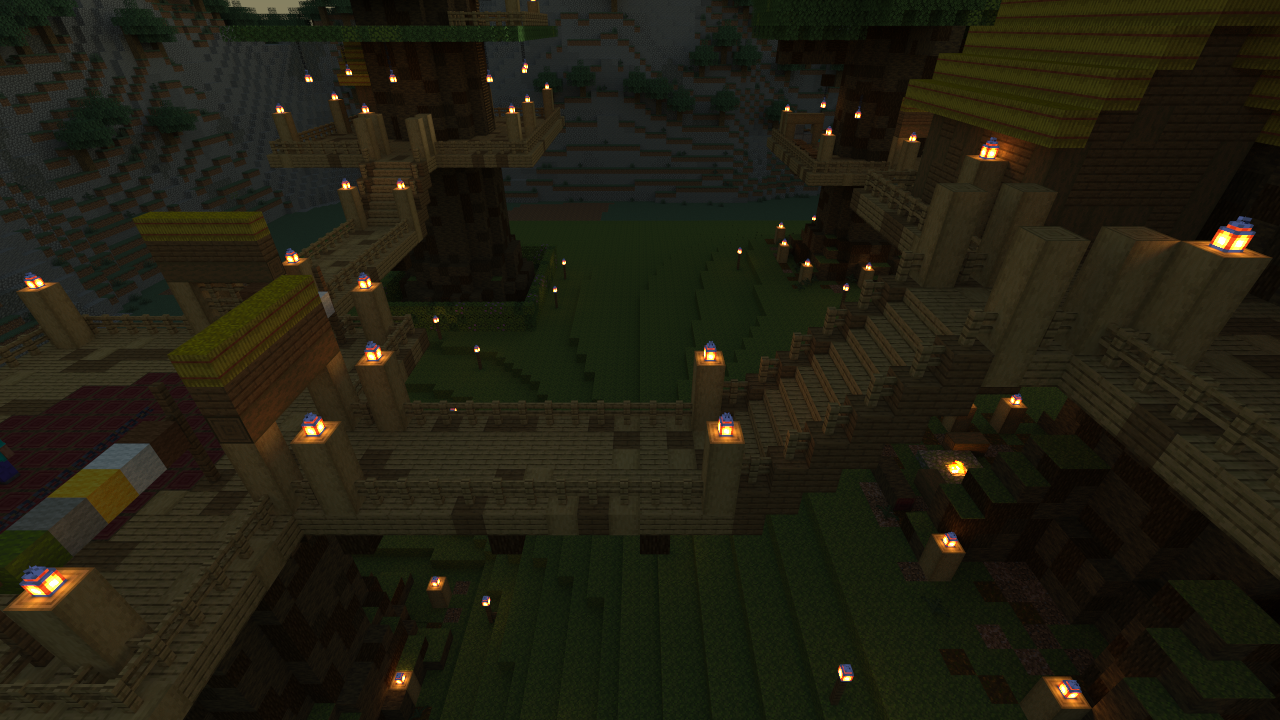
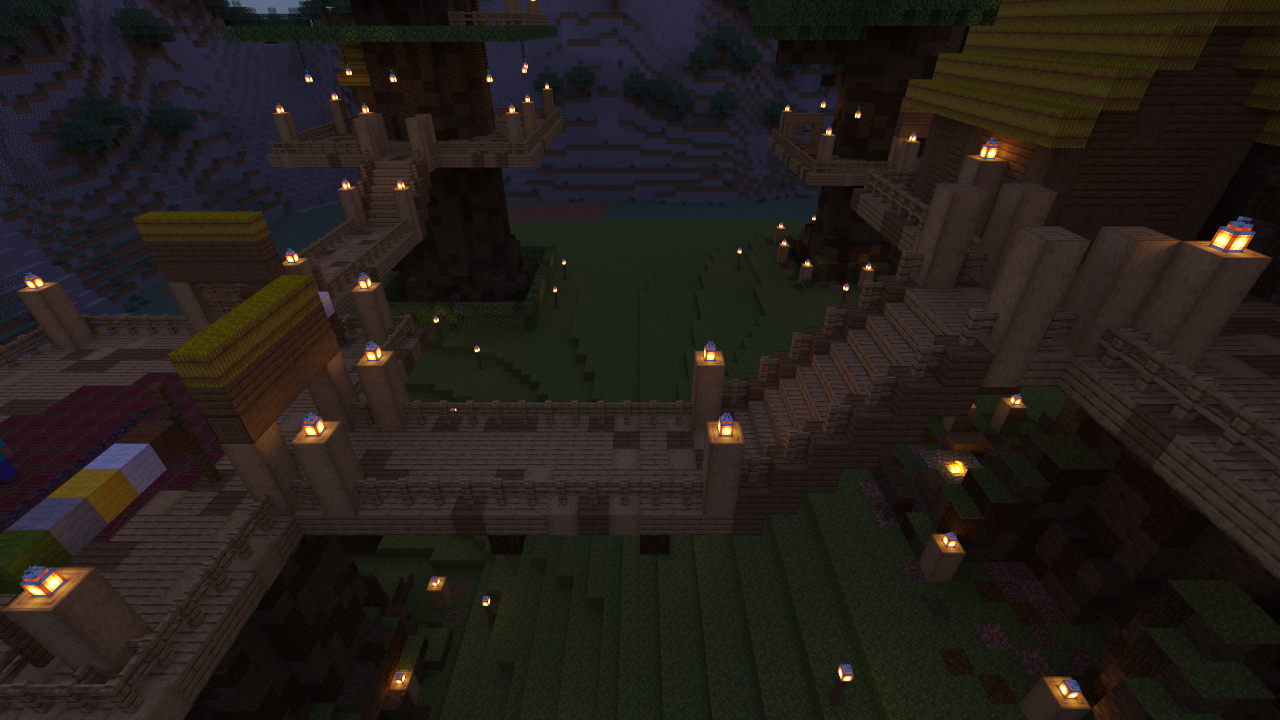
docs(renders): the four HQ Treehouse Camp frames under the game's sky
The README's commands, unchanged, rendered by f291590 on CUDA (RTX 4070 Ti
SUPER, WSL2), now under HQ mode's defaults: the game's sky lit as the client
lights the tick and the mid-grey tone curve. Each frame was rendered twice
and the two PNGs are byte-identical. The four quick frames, re-rendered by
f291590 on Metal, are byte-identical to the committed ones, so they are not
in this commit. Held for the owner's look; the contact sheet (main / new /
the engine's Chunky reference) is outside the repository.

Run log (hq-showcase.sh):
load 0.95 1.06 3.08 2/325 3453189
treehouse-camp-day-hq a exit=0 monotonic_wall=66.18
  render               65.461s
  total                66.073s
treehouse-camp-day-hq b exit=0 monotonic_wall=66.09
  render               65.494s
  total                65.989s
treehouse-camp-day-hq identical
treehouse-bridge-day-hq a exit=0 monotonic_wall=90.66
  render               90.054s
  total                90.550s
treehouse-bridge-day-hq b exit=0 monotonic_wall=90.64
  render               90.046s
  total                90.541s
treehouse-bridge-day-hq identical
treehouse-camp-dusk-hq a exit=0 monotonic_wall=262.45
  render              261.823s
  total               262.342s
treehouse-camp-dusk-hq b exit=0 monotonic_wall=262.51
  render              261.899s
  total               262.410s
treehouse-camp-dusk-hq identical
treehouse-bridge-dusk-hq a exit=0 monotonic_wall=360.92
  render              360.297s
  total               360.808s
[…]

diff --git a/docs/renders.md b/docs/renders.md
@@ -46,11 +46,13 @@ target/release/lumenwright render -w the-treehouse-camp --camera 60,93,22 --look
 | image | Apple M2 Pro, Metal (end to end) | RTX 4070 Ti SUPER, CUDA (end to end / in the kernel) |
 |---|---|---|
 | camp, quick, day / dusk | 0.27 s / 0.27 s | |
-| camp, hq, day (4096 spp) / dusk (16384 spp) | | 92 s / 333 s (90 s / 331 s) |
+| camp, hq, day (4096 spp) / dusk (16384 spp) | | 66 s / 262 s (65 s / 262 s) |
 | bridge, quick, day / dusk | 0.23 s / 0.23 s | |
-| bridge, hq, day (4096 spp) / dusk (16384 spp) | | 123 s / 447 s (121 s / 444 s) |
+| bridge, hq, day (4096 spp) / dusk (16384 spp) | | 91 s / 361 s (90 s / 360 s) |
 
-The quick times are the second of two runs. The 4070 Ti SUPER runs under WSL2 on a 16-thread PC.
+These are the renders' own times at their quality budgets, not a speed comparison (that is
+[benchmark.md](benchmark.md)). The quick times are the second of two runs, measured at `v0.1.0`;
+the quick frames are byte-identical at this revision. The 4070 Ti SUPER runs under WSL2 on a 16-thread PC.
 Each HQ image rendered twice with the same command on the CUDA backend gave byte-identical
 PNGs, as each quick image did on Metal.
 

diff --git a/README.md b/README.md
@@ -20,7 +20,7 @@ Both modes run on several native backends: **CPU** (all cores), **Metal**, **Vul
 
 ![The Treehouse Camp by day, path traced](docs/renders/treehouse-camp-day-hq.png)
 
-*hq · `--time 4000` · 4096 spp · 8 bounces · CUDA on an NVIDIA GeForce RTX 4070 Ti SUPER · 92 s end to end*
+*hq · `--time 4000` · 4096 spp · 8 bounces · CUDA on an NVIDIA GeForce RTX 4070 Ti SUPER · 66 s end to end*
 
 | | quick (vanilla look) | hq (path traced) |
 |---|---|---|
